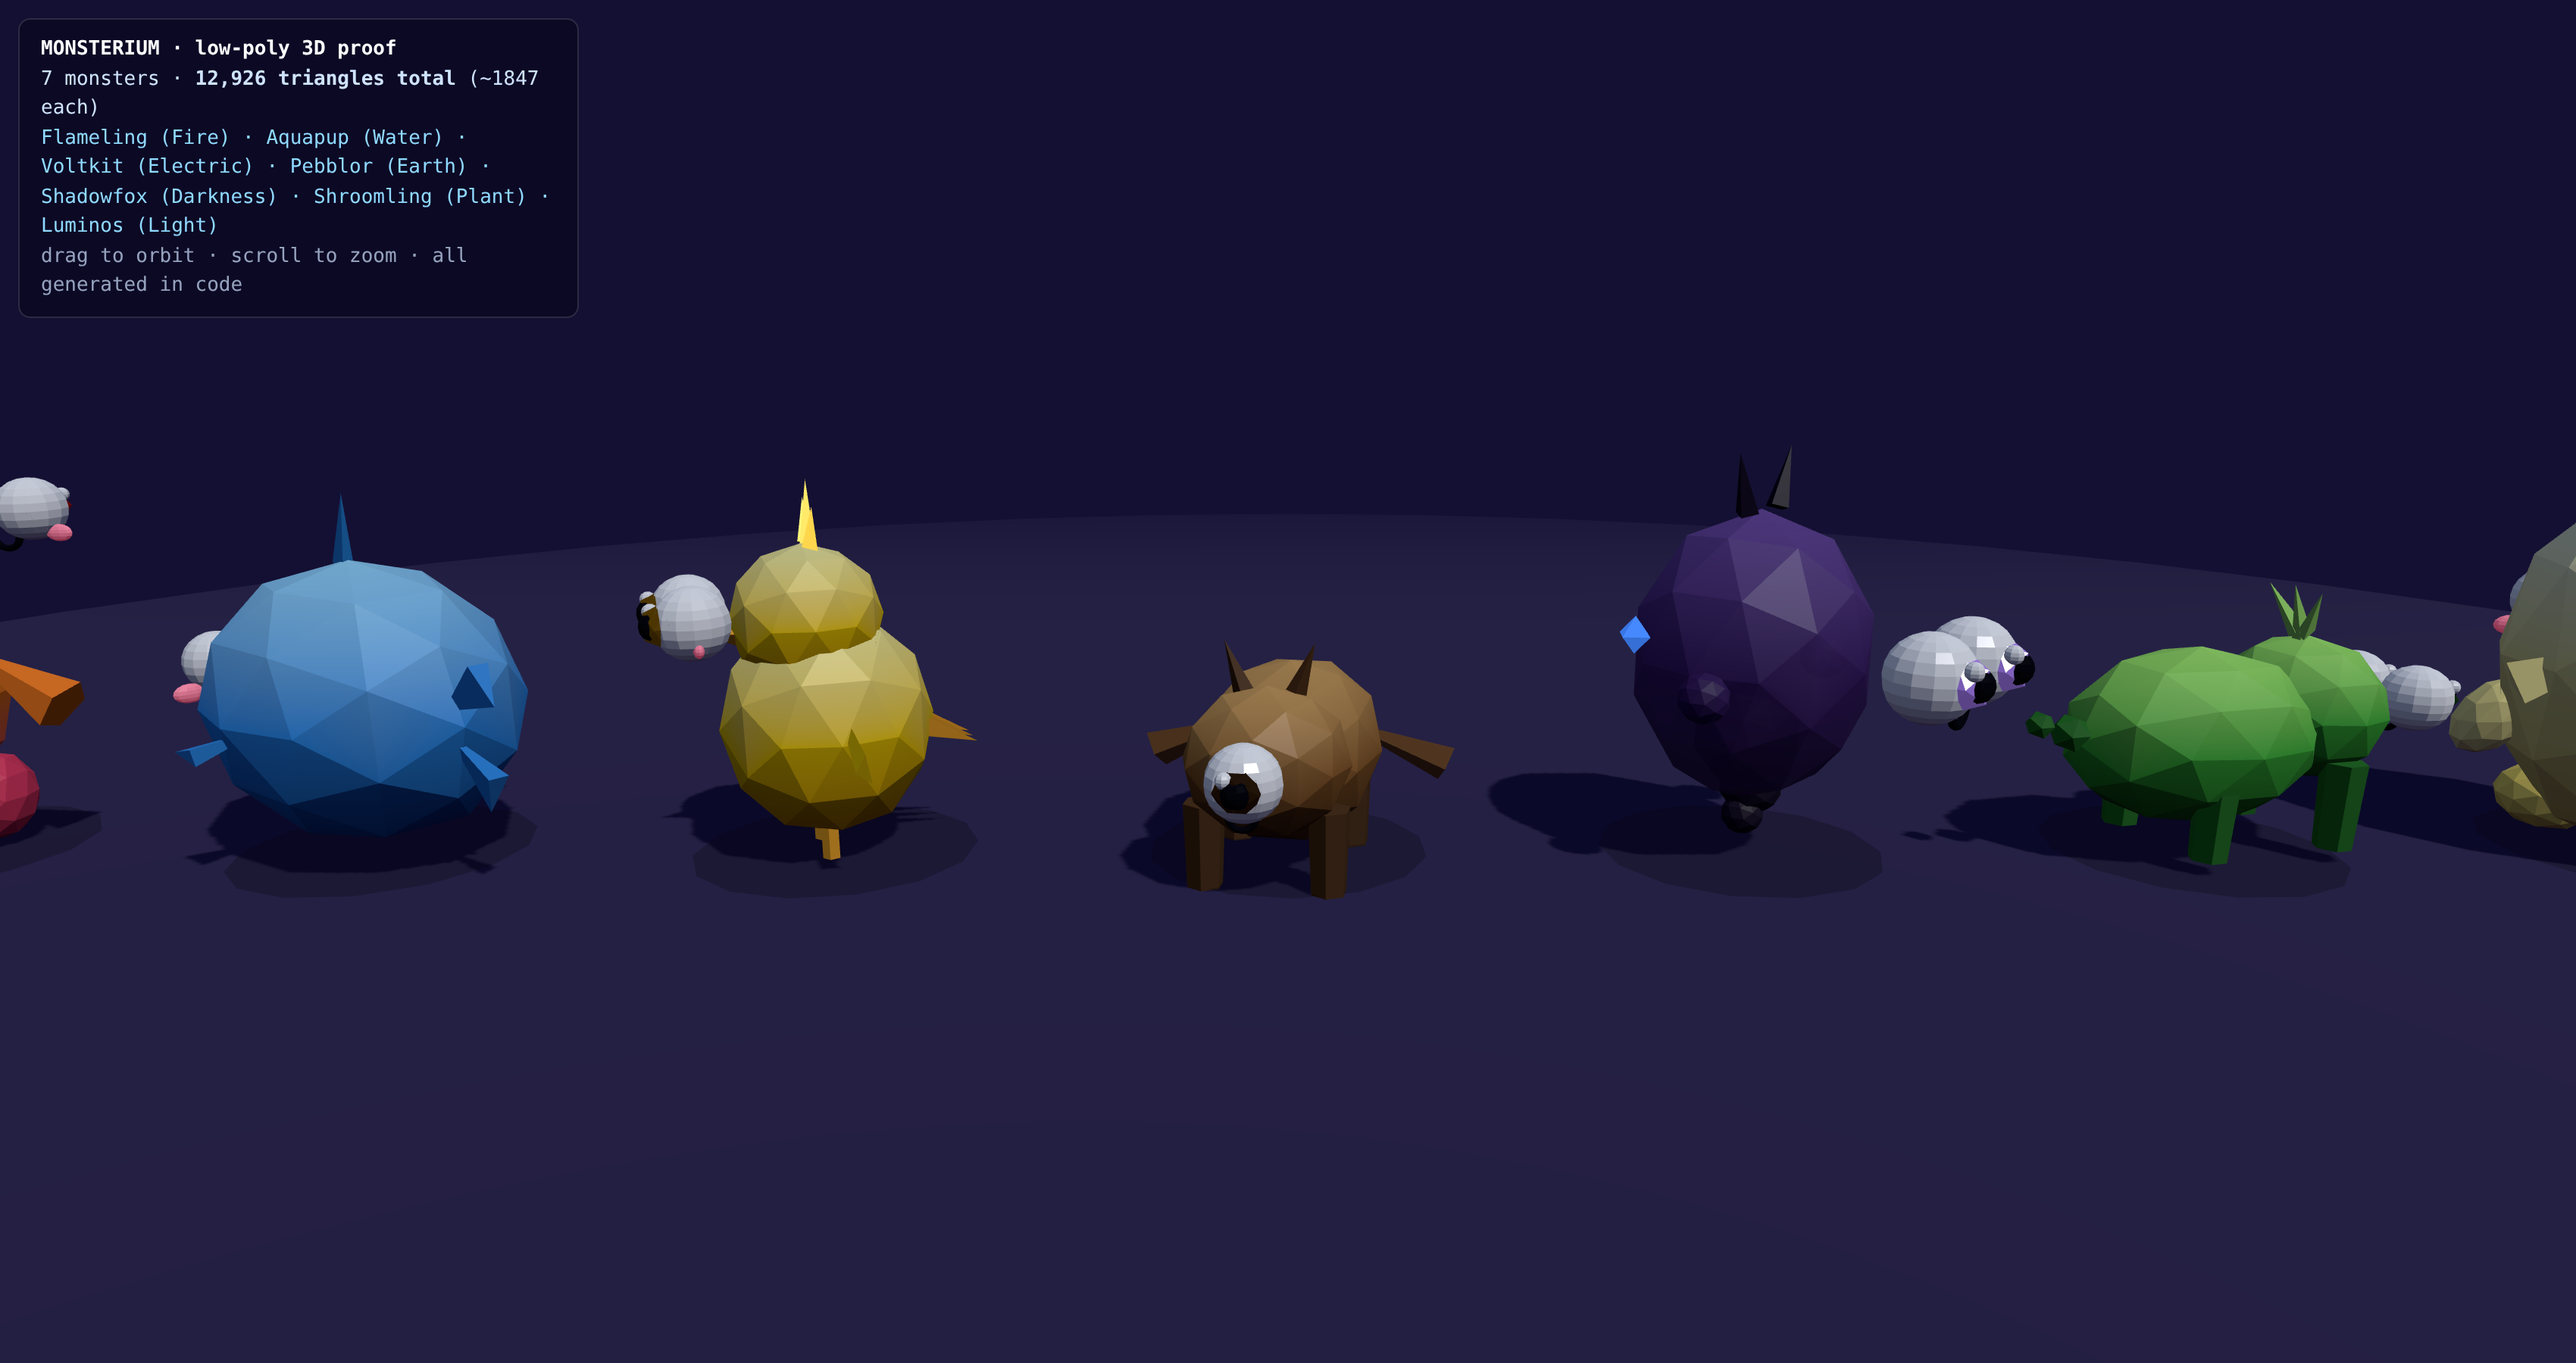
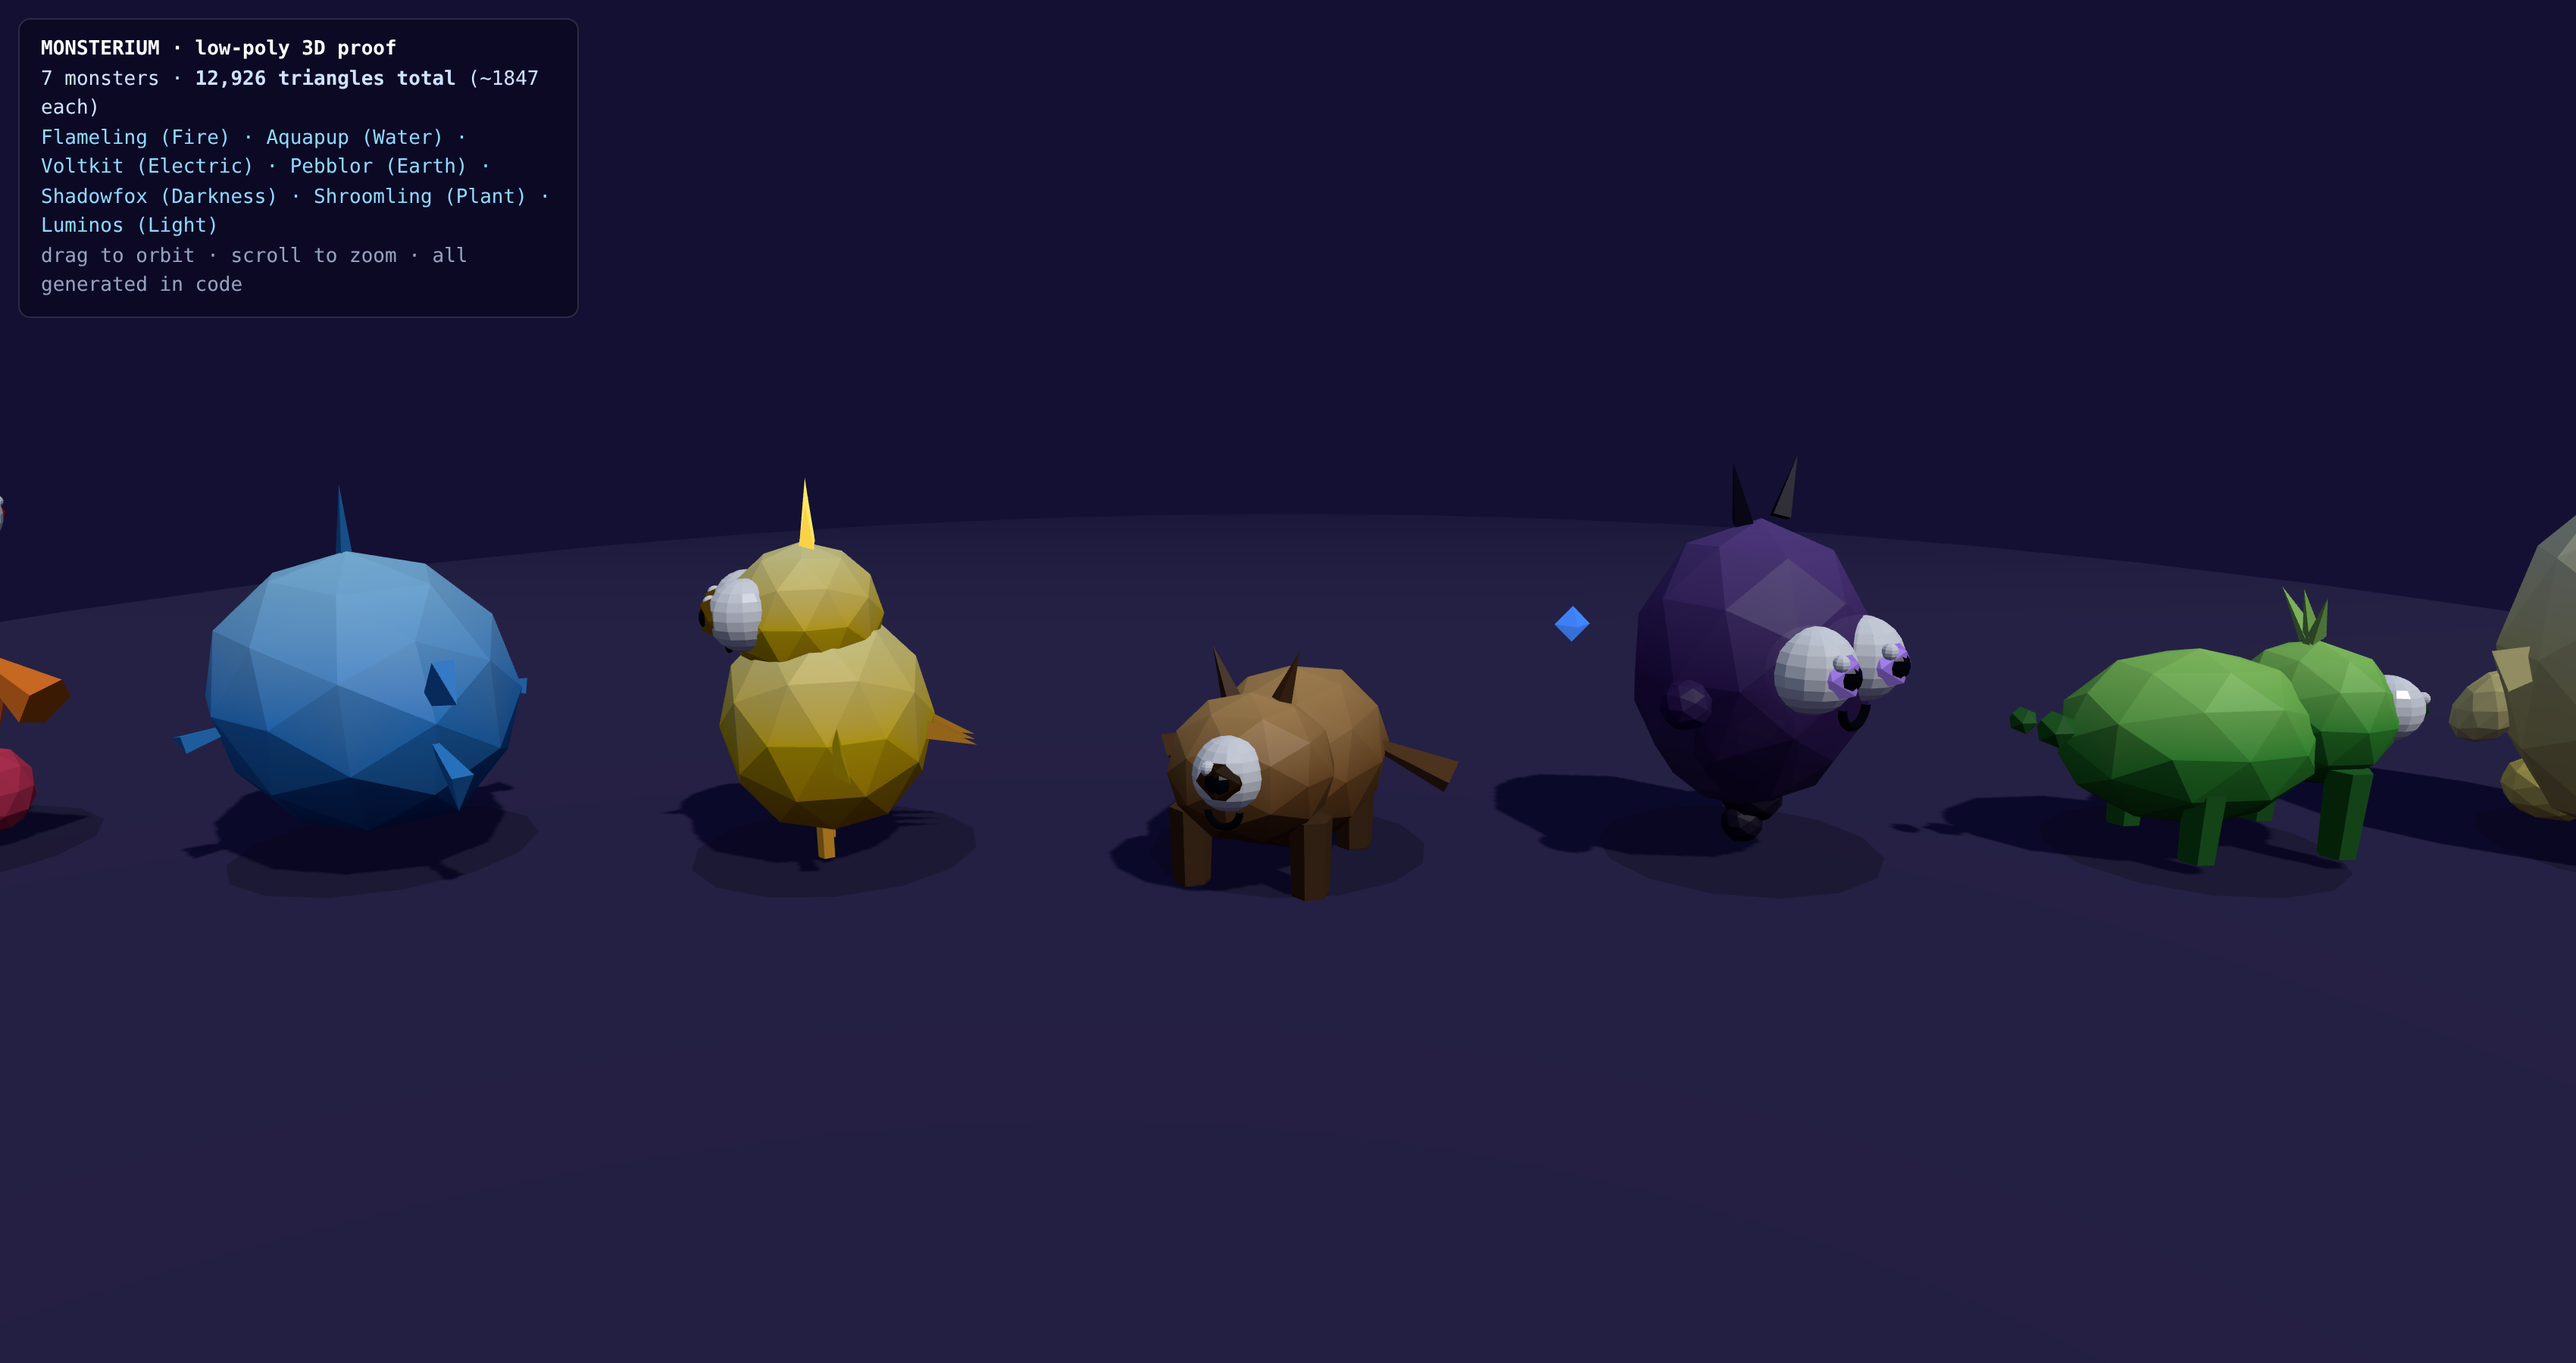
Fix floating monster eyes — seat them on the body surface
addFace() now takes an explicit eye-plane (frontZ) and seats the eyeball so
only its front pokes out, instead of pushing eyes a full head-radius past a
front-offset centre (which made them float). Tuned frontZ/spacing per
archetype (biped, quadruped, aquatic, avian, spectral, critter).

https://claude.ai/code/session_017cxV8ZodgiJp38JoNC71J9

diff --git a/src/proto3d/lowpolyMonster.ts b/src/proto3d/lowpolyMonster.ts
@@ -169,28 +169,34 @@ function buildCrest(art: ElementArt, rng: () => number): THREE.Object3D {
 }
 
 // --- shared face (eyes / cheeks / smile), facing +z ------------------------
+// `frontZ` is the eyeball plane (placed right on the head's front surface so
+// the eyes are seated in the body, never floating); `spacingR` is the head
+// radius and drives eye separation + cheek/mouth offsets.
 interface FaceOpts { eyeCount: number; eyeR: number; cheeks: boolean; iris: number; rng: () => number; }
-function addFace(group: THREE.Group, cx: number, cy: number, cz: number, r: number, o: FaceOpts) {
+function addFace(group: THREE.Group, cx: number, cy: number, frontZ: number, spacingR: number, o: FaceOpts) {
   const white = mat(0xffffff, { roughness: 0.2 });
   const dark = mat(0x080a14, { roughness: 0.12 });
   const irisM = mat(o.iris, { roughness: 0.18, metalness: 0.25, emissive: o.iris, emissiveIntensity: 0.18 });
+  const r = o.eyeR;
+  // Seat the eyeball so only its front pokes out of the surface.
+  const ballZ = frontZ - r * 0.45;
   const xs = o.eyeCount === 1 ? [0] : o.eyeCount === 3 ? [-0.5, 0, 0.5] : [-0.45, 0.45];
   for (const fx of xs) {
-    const ex = cx + fx * r, ey = cy, ez = cz + r * 0.78;
-    const ball = new THREE.Mesh(SPH(o.eyeR, 14, 12), white); ball.position.set(ex, ey, ez); group.add(ball);
-    const ir = new THREE.Mesh(ICO(o.eyeR * 0.7, 0), irisM); ir.position.set(ex, ey, ez + o.eyeR * 0.6); group.add(ir);
-    const pu = new THREE.Mesh(SPH(o.eyeR * 0.4, 10, 8), dark); pu.position.set(ex, ey, ez + o.eyeR * 0.95); group.add(pu);
-    const sh = new THREE.Mesh(SPH(o.eyeR * 0.22, 8, 8), white); sh.position.set(ex - o.eyeR * 0.28, ey + o.eyeR * 0.34, ez + o.eyeR); group.add(sh);
+    const ex = cx + fx * spacingR, ey = cy;
+    const ball = new THREE.Mesh(SPH(r, 14, 12), white); ball.position.set(ex, ey, ballZ); group.add(ball);
+    const ir = new THREE.Mesh(ICO(r * 0.7, 0), irisM); ir.position.set(ex, ey, ballZ + r * 0.55); group.add(ir);
+    const pu = new THREE.Mesh(SPH(r * 0.4, 10, 8), dark); pu.position.set(ex, ey, ballZ + r * 0.82); group.add(pu);
+    const sh = new THREE.Mesh(SPH(r * 0.2, 8, 8), white); sh.position.set(ex - r * 0.28, ey + r * 0.34, ballZ + r * 0.9); group.add(sh);
   }
   if (o.cheeks) {
     const cm = mat(0xff9ab0, { emissive: 0xff5577, emissiveIntensity: 0.22, roughness: 0.6 });
     for (const sgn of [-1, 1]) {
-      const ch = new THREE.Mesh(SPH(r * 0.16, 10, 8), cm); ch.scale.set(1, 0.65, 0.45);
-      ch.position.set(cx + sgn * r * 0.78, cy - r * 0.28, cz + r * 0.74); group.add(ch);
+      const ch = new THREE.Mesh(SPH(spacingR * 0.22, 10, 8), cm); ch.scale.set(1, 0.65, 0.45);
+      ch.position.set(cx + sgn * spacingR * 0.66, cy - spacingR * 0.3, ballZ - r * 0.1); group.add(ch);
     }
   }
-  const mouth = new THREE.Mesh(new THREE.TorusGeometry(r * 0.16, r * 0.04, 8, 12, Math.PI), dark);
-  mouth.rotation.z = Math.PI; mouth.position.set(cx, cy - r * 0.34, cz + r * 0.88); group.add(mouth);
+  const mouth = new THREE.Mesh(new THREE.TorusGeometry(spacingR * 0.22, spacingR * 0.05, 8, 12, Math.PI), dark);
+  mouth.rotation.z = Math.PI; mouth.position.set(cx, cy - spacingR * 0.42, ballZ + r * 0.55); group.add(mouth);
 }
 
 // short stubby limb (cone or ico) helper
@@ -290,7 +296,7 @@ function buildCritter(body: THREE.Group, grad: [number, number, number], fo: Fac
   bm.scale.set(0.96, 1.3 * w, 0.92); bm.position.y = 1.06; body.add(bm);
   for (const s of [-1, 1]) { const a = limb(ICO(0.2, 1), jit(grad[1])); a.scale.set(0.85, 1.3, 0.85); a.position.set(s * 0.78, 0.66, 0.16); a.rotation.z = s * 0.6; body.add(a); }
   feet(body, jit(grad[2]), 0.17, 0.4, 0.28);
-  addFace(body, 0, 1.22, 0.6, 0.6, fo);
+  addFace(body, 0, 1.24, 0.78, 0.55, fo);
   return { x: 0, y: 2.0, z: 0.02, r: 0.6 };
 }
 
@@ -305,7 +311,7 @@ function buildBiped(body: THREE.Group, grad: [number, number, number], fo: FaceO
   for (const s of [-1, 1]) { const l = limb(ICO(0.2, 1), jit(grad[2])); l.scale.set(1, 1.3, 1.2); l.position.set(s * 0.3, 0.28, 0.12); body.add(l); }
   // tail
   if (rng() < 0.7) for (let i = 0; i < 3; i++) { const t = limb(ICO(0.16 - i * 0.04, 0), jit(grad[2])); t.position.set(0, 0.7 - i * 0.12, -0.5 - i * 0.22); body.add(t); }
-  addFace(body, 0, hy + 0.04, 0.46, 0.5, fo);
+  addFace(body, 0, hy + 0.02, 0.46, 0.4, fo);
   return { x: 0, y: hy + 0.5, z: 0.02, r: 0.5 };
 }
 
@@ -317,7 +323,7 @@ function buildQuadruped(body: THREE.Group, grad: [number, number, number], fo: F
   for (const sx of [-1, 1]) for (const sz of [-1, 1]) { const l = limb(new THREE.CylinderGeometry(0.12, 0.1, 0.5, 6), jit(grad[2])); l.position.set(sx * 0.34, 0.25, 0.32 + sz * 0.42 - 0.1); body.add(l); }
   // tail
   for (let i = 0; i < 3; i++) { const t = limb(ICO(0.14 - i * 0.03, 0), jit(grad[2])); t.position.set(0, 0.62 + i * 0.06, -0.7 - i * 0.2); body.add(t); }
-  addFace(body, 0, 0.8, 0.6 + 0.46 * 0.78 - 0.1, 0.46, fo);
+  addFace(body, 0, 0.8, 1.02, 0.4, fo);
   return { x: 0, y: 1.12, z: 0.55, r: 0.46 };
 }
 
@@ -328,7 +334,7 @@ function buildAquatic(body: THREE.Group, grad: [number, number, number], fo: Fac
   for (const sgn of [-1, 1]) { const tf = limb(CONE(0.16, 0.5, 3), jit(grad[1])); tf.scale.set(0.4, 1, 1); tf.position.set(0, 0.95 + sgn * 0.18, -1.05); tf.rotation.x = Math.PI / 2 + sgn * 0.5; body.add(tf); }
   // side fins
   for (const s of [-1, 1]) { const sf = limb(CONE(0.14, 0.4, 3), jit(grad[1])); sf.scale.set(0.4, 1, 1); sf.position.set(s * 0.7, 0.85, 0.1); sf.rotation.z = s * 1.4; body.add(sf); }
-  addFace(body, 0, 1.06, 0.78, 0.55, fo);
+  addFace(body, 0, 1.06, 1.0, 0.5, fo);
   return { x: 0, y: 1.7, z: 0.05, r: 0.5 };
 }
 
@@ -343,7 +349,7 @@ function buildAvian(body: THREE.Group, grad: [number, number, number], fo: FaceO
   for (const s of [-1, 1]) { const l = limb(new THREE.CylinderGeometry(0.05, 0.05, 0.4, 5), 0xffb02a); l.position.set(s * 0.18, 0.3, 0.05); body.add(l); }
   // tail feathers
   for (const sgn of [-1, 0, 1]) { const t = limb(CONE(0.1, 0.45, 3), jit(grad[2])); t.scale.set(0.5, 1, 1); t.position.set(sgn * 0.12, 0.75, -0.6); t.rotation.x = -1.9; body.add(t); }
-  addFace(body, 0, 1.5, 0.36, 0.42, fo);
+  addFace(body, 0, 1.5, 0.48, 0.34, fo);
   return { x: 0, y: 1.85, z: 0.05, r: 0.42 };
 }
 
@@ -358,7 +364,7 @@ function buildSpectral(body: THREE.Group, grad: [number, number, number], fo: Fa
   for (let i = 0; i < 4; i++) { const t = limb(ICO(0.3 - i * 0.06, 1), jit(grad[2])); t.position.set(Math.sin(i) * 0.1, 0.65 - i * 0.16, 0); body.add(t); }
   // floating wisp arms
   for (const s of [-1, 1]) { const a = limb(ICO(0.14, 1), jit(grad[1])); a.position.set(s * 0.7, 1.0, 0.1); body.add(a); }
-  addFace(body, 0, 1.2, 0.66, 0.58, { ...fo, eyeR: fo.eyeR * 1.1 });
+  addFace(body, 0, 1.2, 0.64, 0.5, { ...fo, eyeR: fo.eyeR * 1.1 });
   return { x: 0, y: 1.95, z: 0.02, r: 0.55 };
 }
 
